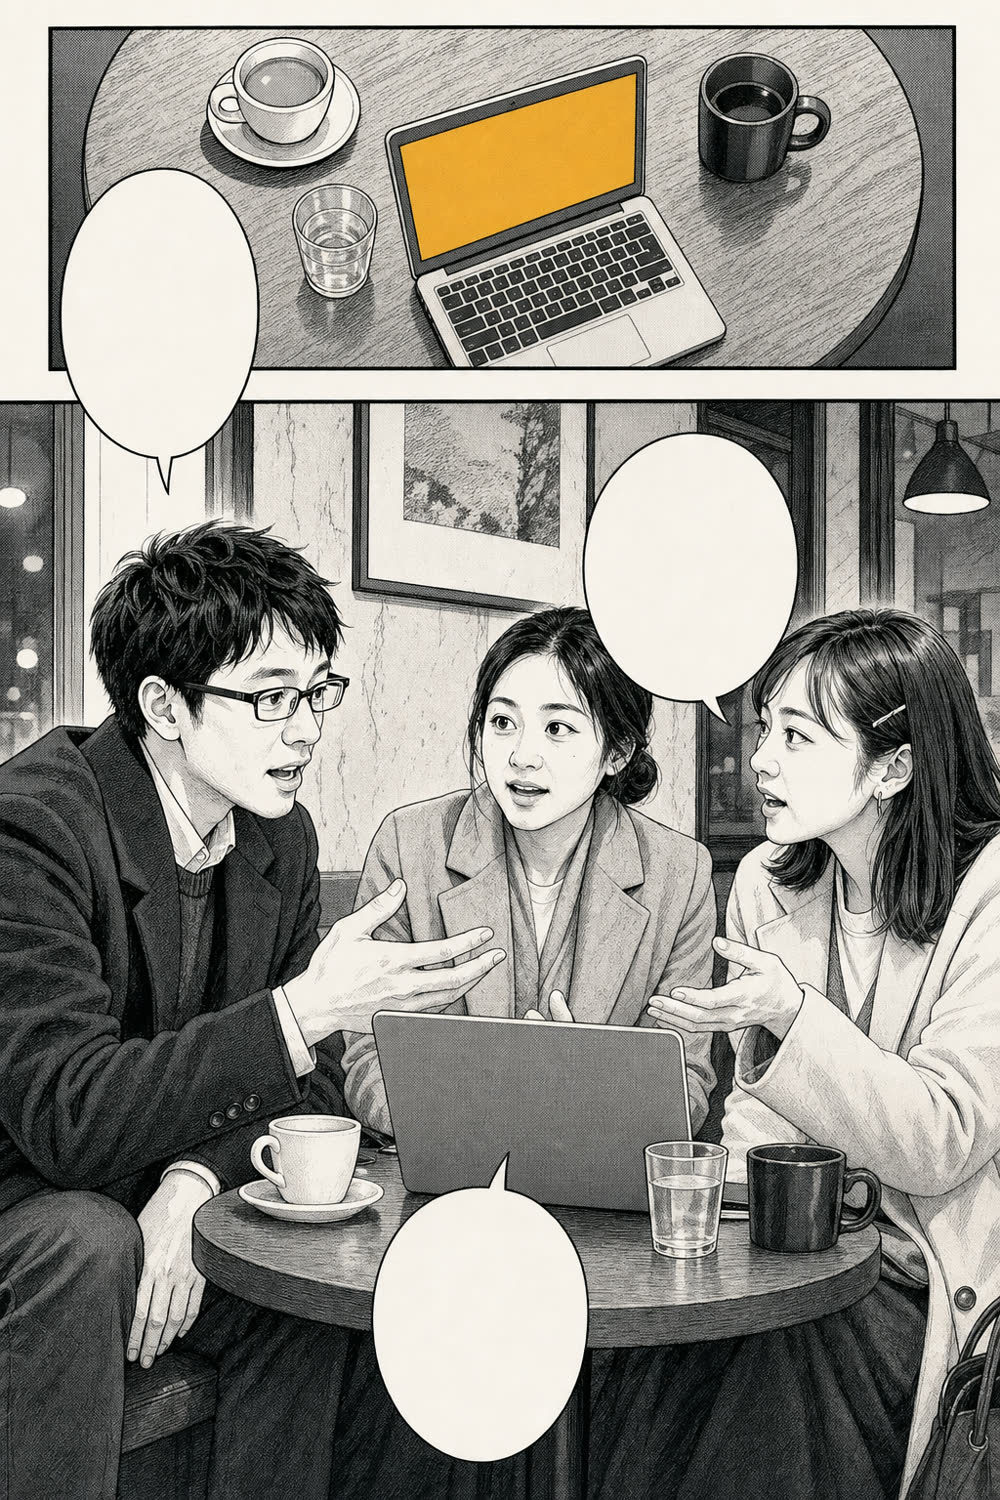
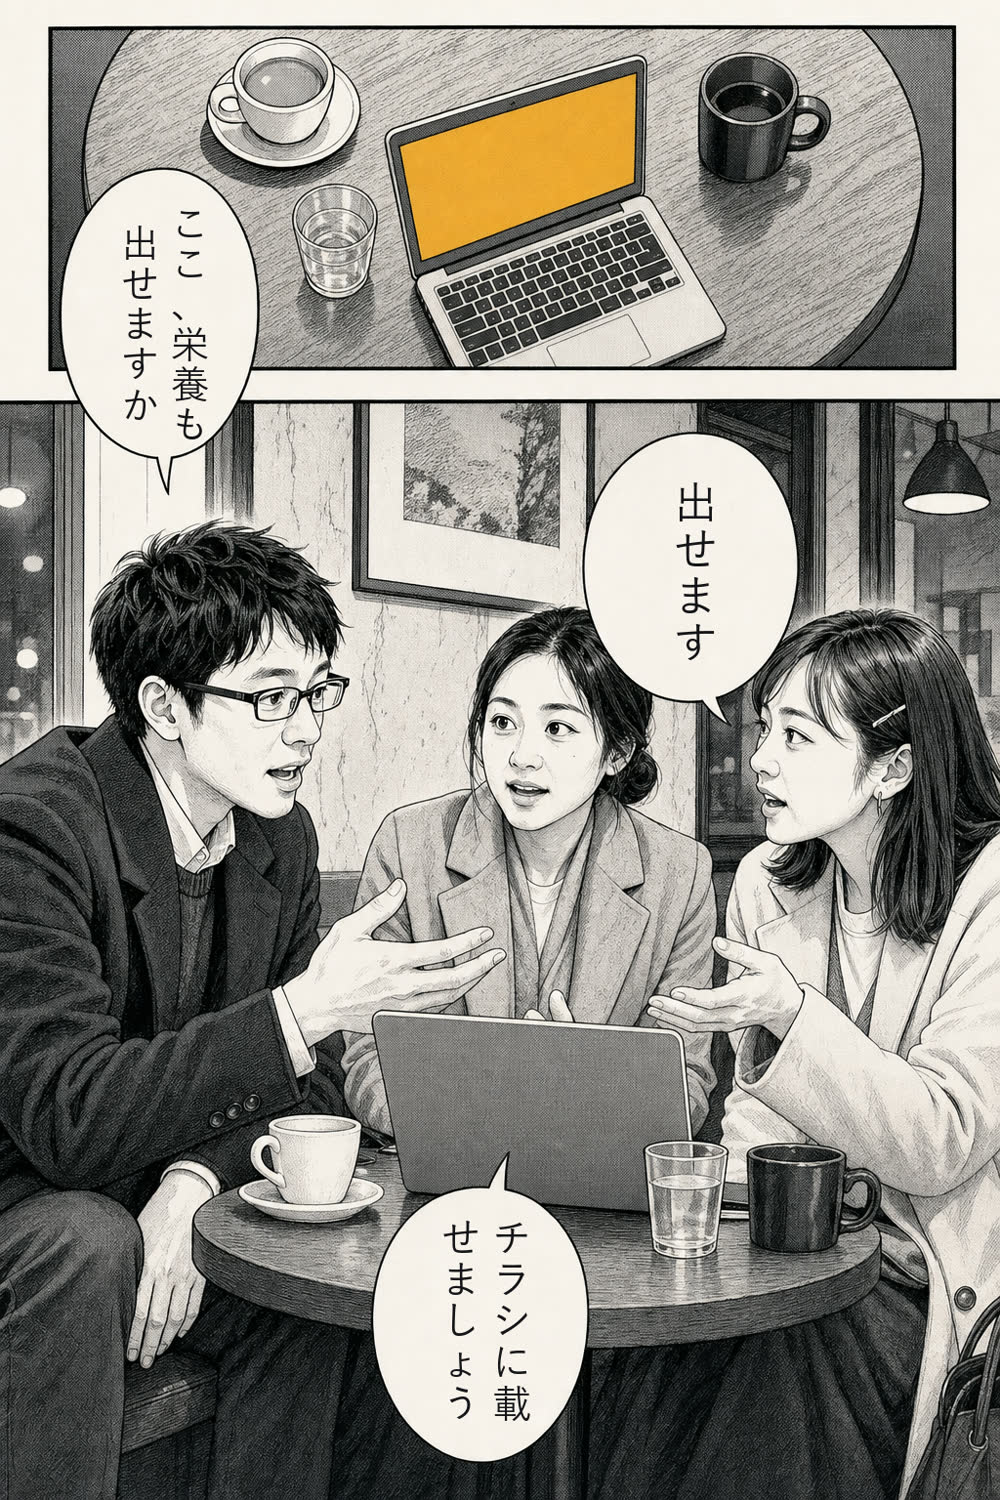
漫画にセリフを入れ、動画と漫画の開き方を揃えた
セリフ
- 吹き出しの位置を画像から自動検出（白領域の連結成分・面積比・縦横比で判定）
- 検出した吹き出しを右上から左下の順に並べ、その順でセリフを割り当て
- 縦書きで、行は右から左へ。吹き出しの大きさに合わせて字送りを自動調整
- 全11ページ中7ページ、計15個のセリフ

読み方の統一
- 動画はモーダル、漫画は別ページと、開き方が食い違っていた
- 動画も /story/ の独立ページにし、漫画ページと同じ骨格に揃えた
  ヘッダー・戻るボタン・本文・末尾のCTA・フッターが同一
- トップの2つのバナーは、どちらもページ遷移になった
- 全画面モーダルのHTML・CSS・JSは削除

diff --git a/story/index.html b/story/index.html
@@ -1,0 +1,78 @@
+<!DOCTYPE html>
+<html lang="ja">
+<head>
+<meta charset="utf-8">
+<meta name="viewport" content="width=device-width, initial-scale=1">
+<meta name="robots" content="noindex, nofollow">
+<title>つくれる。その先は、まだ。｜IFbox</title>
+<link rel="stylesheet" href="https://fonts.googleapis.com/css2?family=Noto+Sans+JP:wght@400;500;700;900&family=Poppins:wght@600;700&display=swap">
+<style>
+  :root{--ink:#16203A;--ink-2:#3A465F;--ink-3:#5D687F;--bg:#EAEEF4;--line:#DCE3EC;
+        --navy:#0E2A5B;--gold:#F6A623;--gold-deep:#8F5A08;
+        --body:'Noto Sans JP',system-ui,sans-serif;--latin:'Poppins',sans-serif}
+  *{box-sizing:border-box}
+  body{margin:0;background:var(--bg);color:var(--ink);font-family:var(--body);-webkit-font-smoothing:antialiased}
+  p{margin:0}
+  .nav{position:sticky;top:0;z-index:30;background:rgba(234,238,244,.94);backdrop-filter:blur(8px);
+       border-bottom:1px solid rgba(14,42,91,.12)}
+  .nav .in{max-width:1000px;margin:0 auto;padding:0 20px;height:60px;display:flex;align-items:center;justify-content:space-between}
+  .brand{display:flex;align-items:center;gap:10px;text-decoration:none;color:var(--navy);font-family:var(--latin);font-weight:700;font-size:20px}
+  .brand svg{width:32px;height:32px}
+  .back{font-size:13px;font-weight:700;color:var(--navy);text-decoration:none;border:1.5px solid var(--navy);
+        border-radius:8px;padding:8px 15px}
+  .back:hover{background:var(--navy);color:#fff}
+  header{max-width:1000px;margin:0 auto;padding:44px 20px 26px;text-align:center}
+  header .eb{font-family:var(--latin);font-size:12px;font-weight:600;letter-spacing:.28em;color:var(--gold-deep)}
+  header h1{margin:12px 0 0;font-size:clamp(24px,4vw,36px);font-weight:900;color:var(--navy);line-height:1.4}
+  header p{margin-top:12px;font-size:15px;color:var(--ink-2);line-height:1.9}
+  header .meta{margin-top:14px;font-size:12.5px;color:var(--ink-3)}
+  .pages{max-width:1000px;margin:0 auto;padding:0 20px 60px;display:grid;gap:20px}
+  .pages figure{margin:0;background:#fff;border-radius:12px;overflow:hidden;box-shadow:0 8px 26px rgba(14,42,91,.10)}
+  .pages img{display:block;width:100%;height:auto}
+  .end{max-width:1000px;margin:0 auto;padding:0 20px 70px;text-align:center}
+  .end .box{background:var(--navy);color:#fff;border-radius:16px;padding:36px 28px}
+  .end h2{margin:0;font-size:clamp(20px,3vw,27px);font-weight:900}
+  .end p{margin-top:10px;font-size:14.5px;color:rgba(255,255,255,.84);line-height:1.9}
+  .end a{display:inline-flex;align-items:center;gap:8px;margin-top:20px;background:var(--gold);color:var(--navy);
+         font-weight:700;text-decoration:none;padding:13px 24px;border-radius:9px;font-size:15px}
+  .end a:hover{transform:translateY(-1px)}
+  footer{max-width:1000px;margin:0 auto;padding:0 20px 48px;font-size:12.5px;color:var(--ink-3);line-height:1.8;text-align:center}
+</style>
+</head>
+<body>
+
+<nav class="nav"><div class="in">
+  <a class="brand" href="../">
+    <svg viewBox="0 0 40 40" aria-hidden="true"><rect x="2.5" y="2.5" width="35" height="35" rx="9.5" fill="#F6A623"/><circle cx="8.6" cy="8.6" r="2.1" fill="#0E2A5B"/><circle cx="31.4" cy="8.6" r="2.1" fill="#0E2A5B"/><circle cx="8.6" cy="31.4" r="2.1" fill="#0E2A5B"/><circle cx="31.4" cy="31.4" r="2.1" fill="#0E2A5B"/><rect x="12.1" y="11" width="5.3" height="18" rx="2.3" fill="#fff"/><rect x="20.5" y="11" width="5.3" height="18" rx="2.3" fill="#fff"/><rect x="20.5" y="11" width="8.8" height="5.3" rx="2.3" fill="#fff"/><rect x="20.5" y="18.7" width="6.7" height="4.9" rx="2.2" fill="#fff"/></svg>
+    IFbox
+  </a>
+  <a class="back" href="../">← トップへ</a>
+</div></nav>
+
+<header>
+  <p class="eb">Story</p>
+  <h1>つくれる。その先は、まだ。</h1>
+  <p>夜と週末に何か作っている人が、思いついたものを一行だけ置く。<br>別の街にいた二人が乗ってくる。三人が出会って、見知らぬ台所で使われるまで。</p>
+  <p class="meta">72秒 ・ ナレーションなし・字幕あり ・ 音が出ます</p>
+</header>
+
+<div class="pages">
+  <figure style="background:#000">
+    <video controls playsinline preload="metadata" poster="../media/story-poster.jpg" style="width:100%;display:block">
+      <source src="../media/story.mp4" type="video/mp4">
+    </video>
+  </figure>
+</div>
+
+<div class="end"><div class="box">
+  <h2>あなたの“もし”も、置いていけます。</h2>
+  <p>整った企画書はいりません。ひとことで構いません。<br>置いておけば、面白がった人が乗ってきます。</p>
+  <a href="../#post">“もし”を置いてみる →</a>
+</div></div>
+
+<footer>
+  <p>この映像は物語で、実在の案件ではありません。映像・音楽ともAIで制作しています。<br>© 2026 IFbox</p>
+</footer>
+
+</body>
+</html>

diff --git a/index.html b/index.html
@@ -343,26 +343,6 @@
   @media (max-width:860px){.mrow{grid-template-columns:1fr}}
   @media (max-width:420px){.mcta{grid-template-columns:88px 1fr auto}.mcta .cv{width:88px;height:56px}}
 
-  /* film : 全画面プレイヤー */
-  .film{position:fixed;inset:0;z-index:100;background:rgba(7,21,47,.96);display:none;align-items:center;justify-content:center;padding:24px}
-  .film.on{display:flex}
-  .film .box{position:relative;width:min(1160px,100%);border-radius:14px;overflow:hidden;background:#000;box-shadow:0 30px 80px rgba(0,0,0,.55)}
-  .film video{display:block;width:100%;height:auto;background:#000}
-  .film .cl{position:absolute;top:14px;right:14px;font:inherit;font-size:13px;font-weight:700;color:#fff;
-            background:rgba(7,21,47,.6);border:1px solid rgba(255,255,255,.4);border-radius:999px;padding:7px 14px;cursor:pointer}
-  .film .cl:hover{background:var(--gold);color:var(--navy);border-color:transparent}
-
-  .film{max-width:1320px;margin:0 auto 52px;padding:0 24px}
-  .film .in{background:var(--navy);border-radius:20px;padding:44px 48px 40px;color:#fff}
-  .film .eb{color:var(--gold);margin-bottom:12px}
-  .film h2{font-size:clamp(22px,2.6vw,30px);font-weight:900;color:#fff;line-height:1.4}
-  .film p.lead{font-size:15.5px;color:rgba(255,255,255,.82);max-width:44em;margin-top:10px;line-height:1.9}
-  .film p.lead b{color:#fff}
-  .film .frame{margin-top:26px;border-radius:14px;overflow:hidden;background:#000;box-shadow:0 20px 50px rgba(0,0,0,.4)}
-  .film video{display:block;width:100%;height:auto}
-  .film .meta{margin-top:14px;font-size:12.5px;color:rgba(255,255,255,.6);display:flex;flex-wrap:wrap;gap:6px 22px}
-  @media (max-width:760px){.film .in{padding:30px 20px 28px}}
-
   /* demo : 1枚の案件カードが積み上がる */
   .demo{margin-top:26px}
   .demo .steps{display:grid;grid-template-columns:repeat(3,1fr);gap:12px;margin-bottom:4px;align-items:stretch}
@@ -530,7 +510,7 @@
 </header>
 
 <div class="mrow" id="story">
-  <a class="mcta" href="#" id="playStory" aria-label="ものがたり動画を見る（72秒）">
+  <a class="mcta" href="story/" aria-label="ものがたり動画を見る（72秒）">
     <span class="cv"><img src="media/story-poster.jpg" alt=""><span class="pl"><b>▶</b></span></span>
     <span class="tx">
       <span class="tag">AIで制作した短編</span>
@@ -548,13 +528,6 @@
     </span>
     <span class="go" aria-hidden="true">›</span>
   </a>
-</div>
-
-<div class="film" id="filmPlayer" role="dialog" aria-modal="true" aria-label="ものがたり動画">
-  <div class="box">
-    <video id="filmVideo" controls playsinline preload="none" poster="media/story-poster.jpg" src="media/story.mp4"></video>
-    <button type="button" class="cl" id="filmClose">閉じる ✕</button>
-  </div>
 </div>
 
 <!-- 02：もしの流通をつくる -->
@@ -894,21 +867,6 @@
   <p>© 2026 IFbox ｜ <a href="#privacy">個人情報の取り扱いについて</a></p>
 </footer>
 
-
-<script>
-  (function(){
-    var b=document.getElementById('playStory'),p=document.getElementById('filmPlayer'),
-        v=document.getElementById('filmVideo'),c=document.getElementById('filmClose');
-    if(!b||!p||!v)return;
-    function close(){p.classList.remove('on');document.body.style.overflow='';v.pause();b.focus();}
-    b.addEventListener('click',function(e){e.preventDefault();p.classList.add('on');
-      document.body.style.overflow='hidden';v.currentTime=0;var q=v.play();if(q&&q.catch)q.catch(function(){});c.focus();});
-    c.addEventListener('click',close);
-    p.addEventListener('click',function(e){if(e.target===p)close();});
-    document.addEventListener('keydown',function(e){if(e.key==='Escape'&&p.classList.contains('on'))close();});
-    v.addEventListener('ended',close);
-  })();
-</script>
 
 <script>
   (function(){
